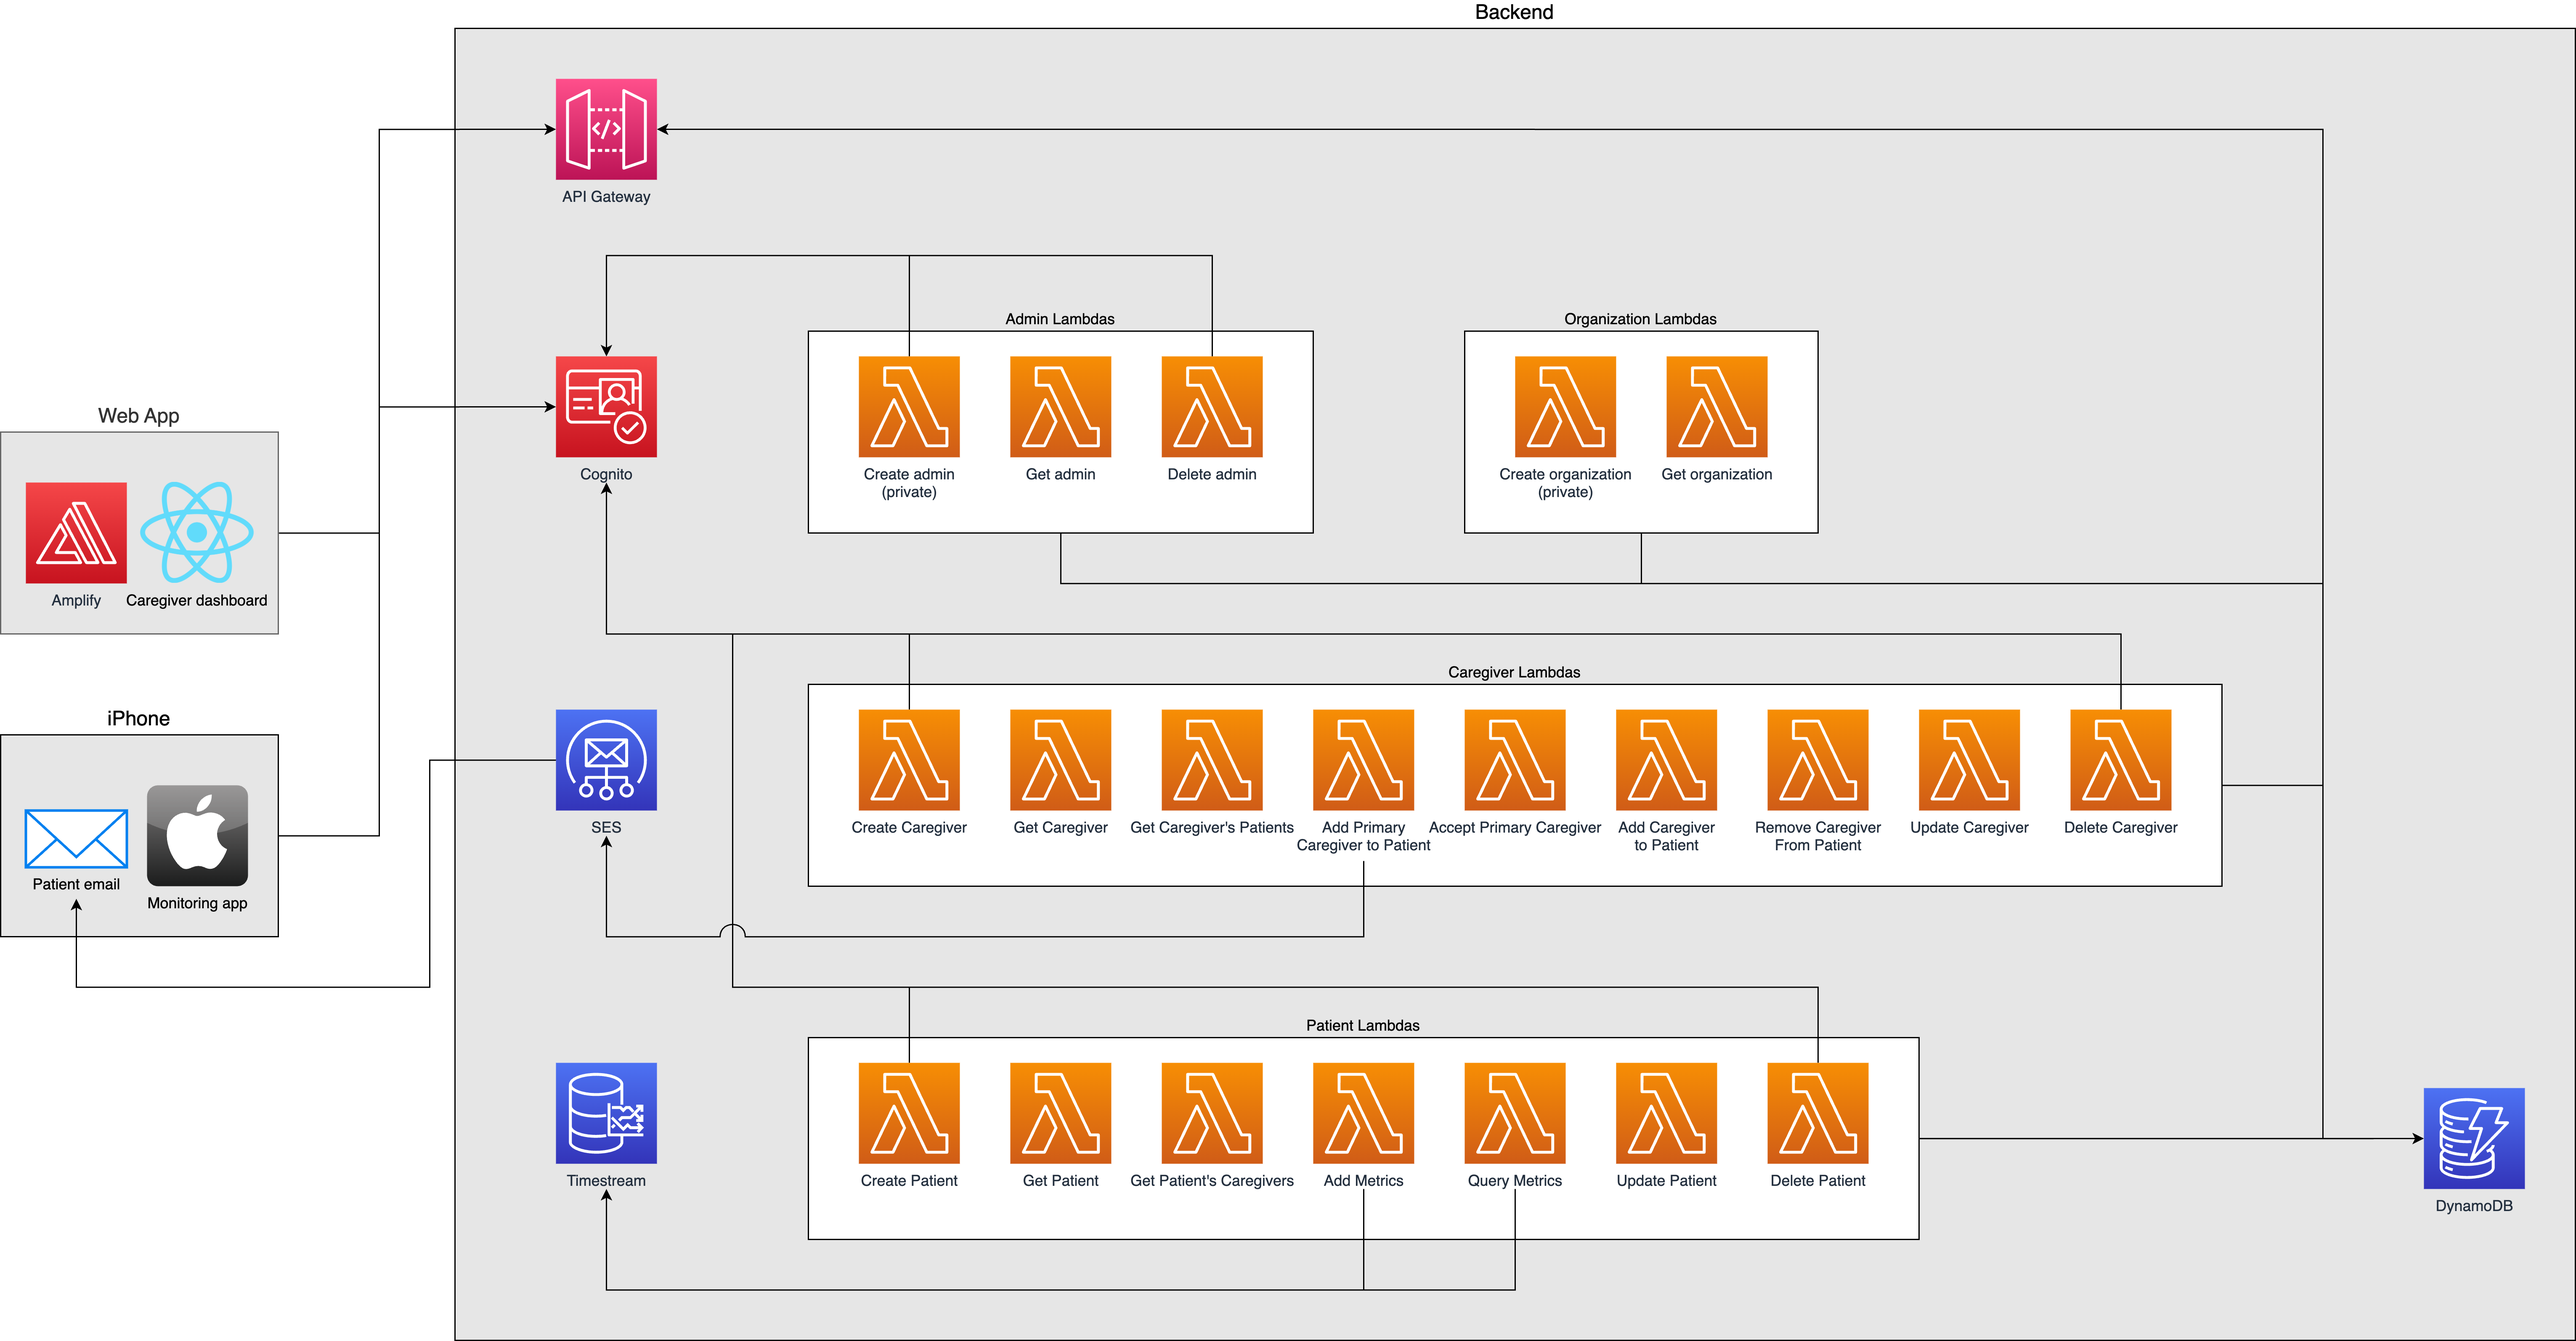
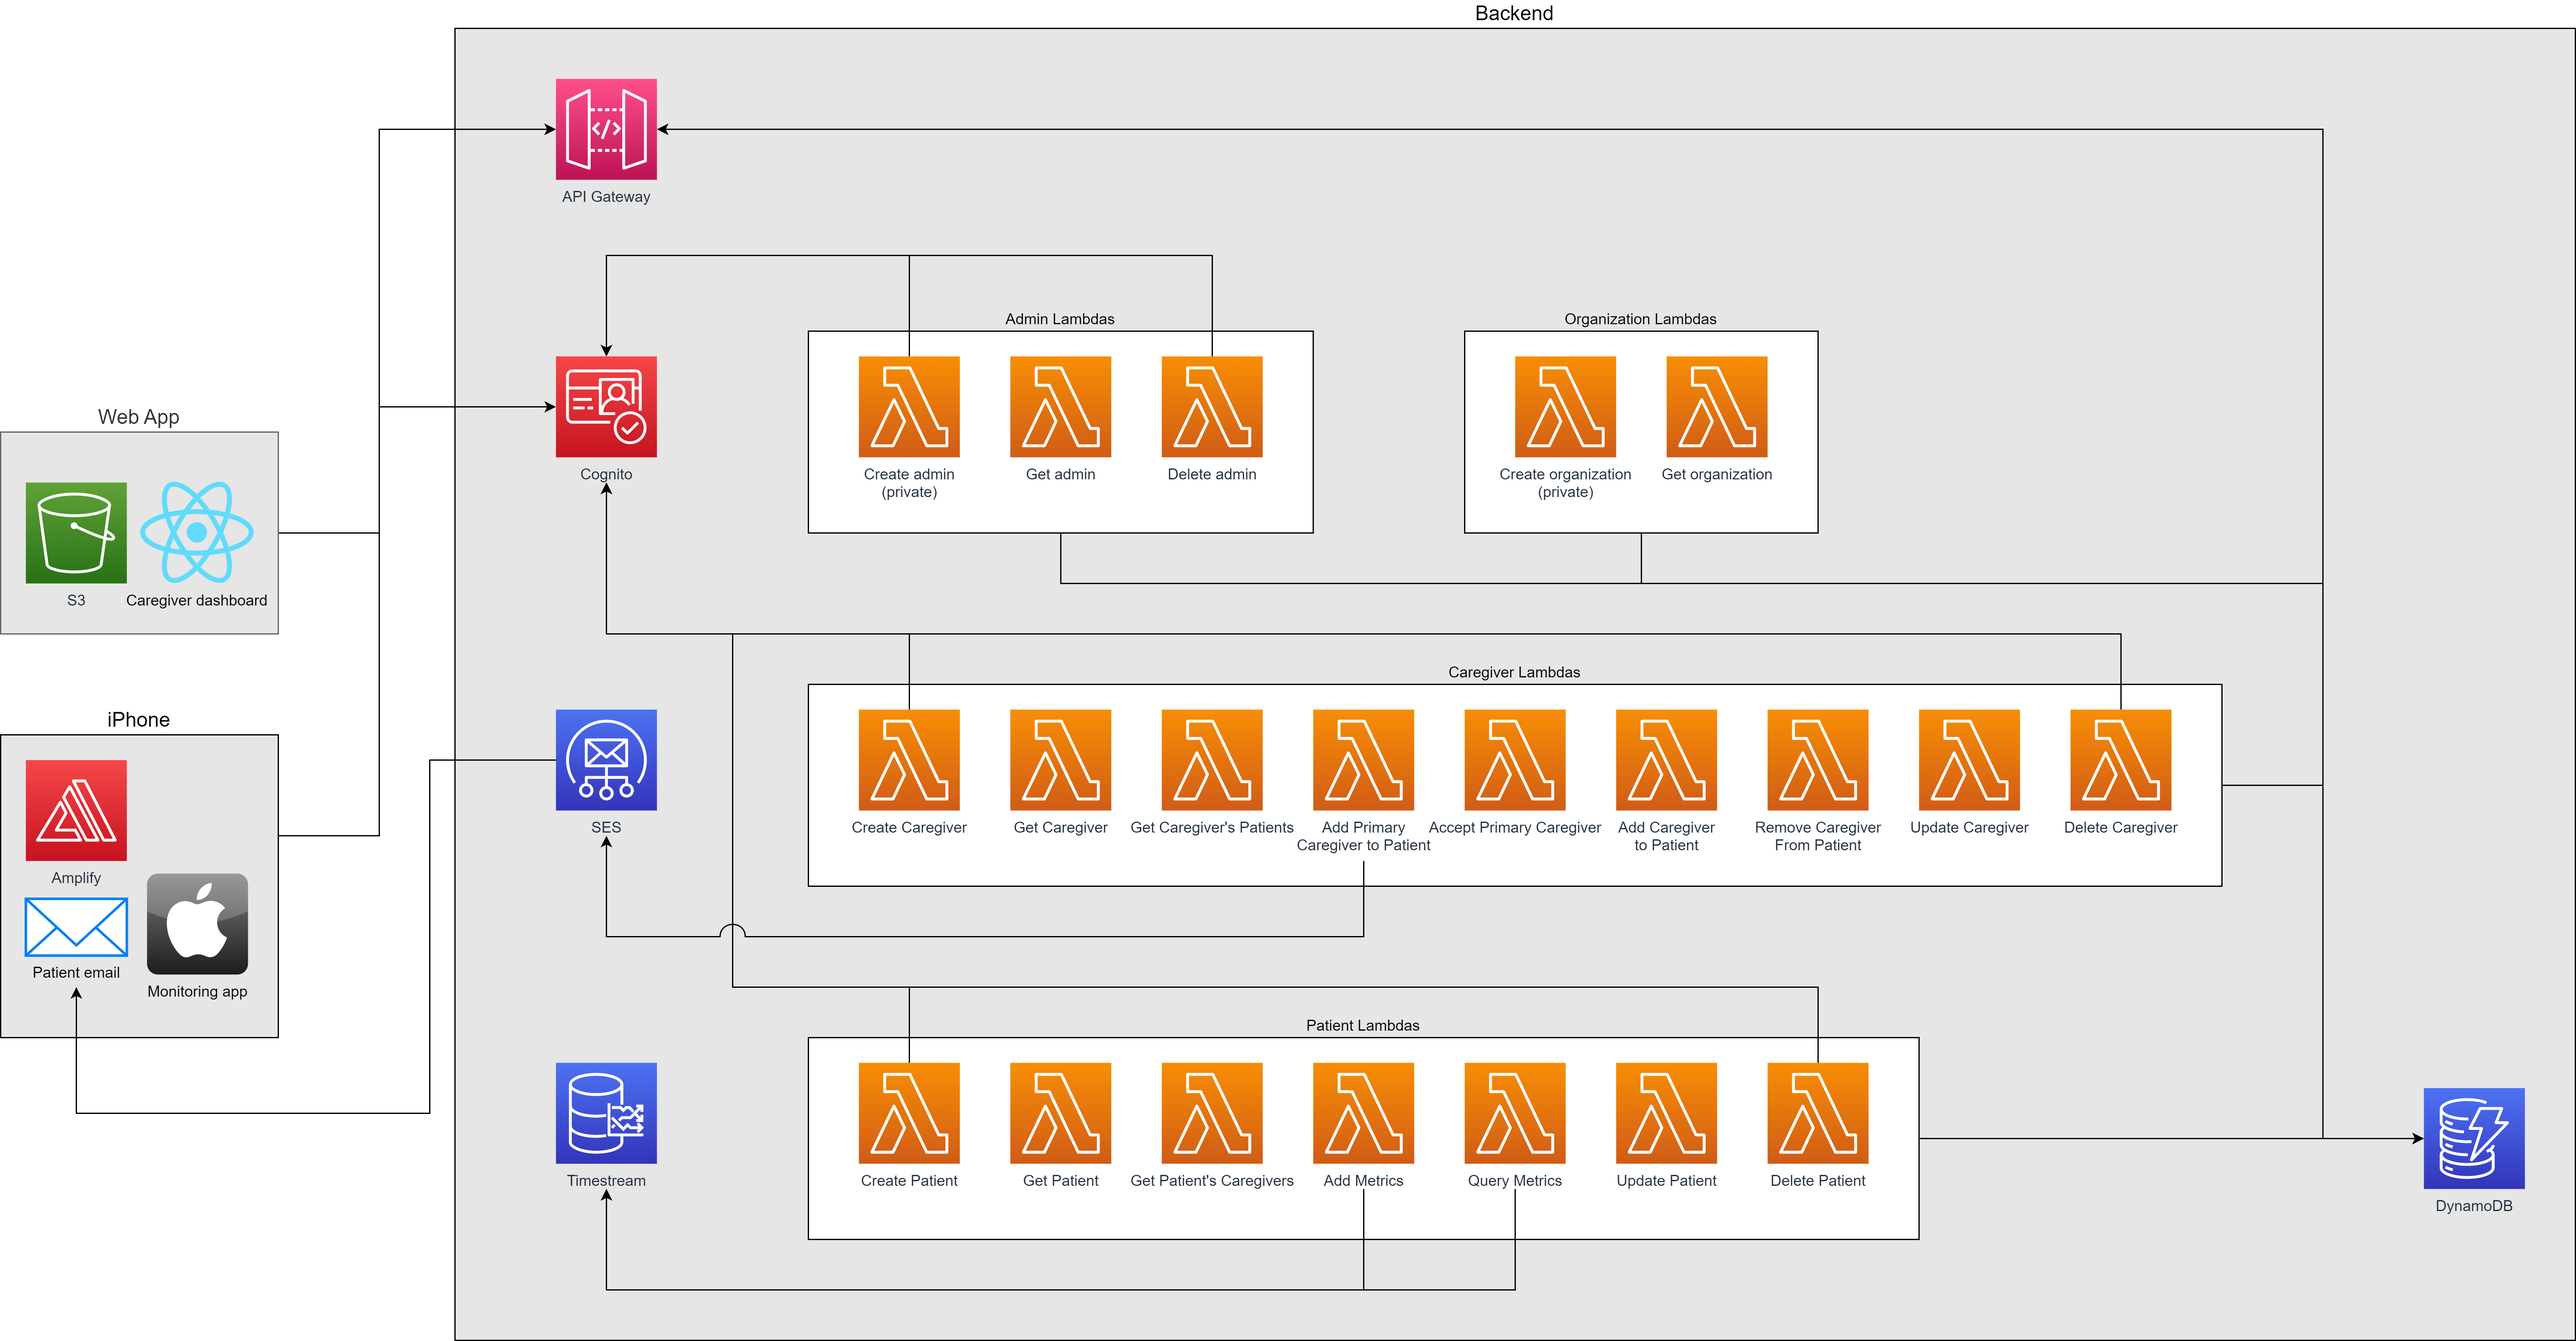
Fixed some typos and updated architecture diagrams

diff --git a/docs/ArchitectureDeepDive.md b/docs/ArchitectureDeepDive.md
@@ -8,8 +8,8 @@ The Architecture diagram gives insight into how patient and caregiver registrati
 
 ### Patient and Caregiver Registration Flow
 1. Patients can sign up for accounts directly on the iOS app. The iOS app calls the Create Patient Lambda through API Gateway which creates the patient record in DynamoDB and in the Cognito user pool.
-2. The web app, which is hosted through Amplify, allows admins to create caregiver accounts. The web app calls the Create Caregiver Lambda through API Gateway which creates the caregiver record in DynamoDB and in the Cognito user pool.
-3. Patients and Caregivers can log in to their accounts through the iOS app and web app respectively. The log in functionality is provided by Cognito. After logging in, the apps receive an ID token which is attached to all subsequent API calls to API Gateway, which validates the token using a Cognito Authorizer and allow the calls to proceed to the Lambdas.
+2. The web app, which is hosted through S3, allows admins to create caregiver accounts. The web app calls the Create Caregiver Lambda through API Gateway which creates the caregiver record in DynamoDB and in the Cognito user pool.
+3. Patients and Caregivers can log in to their accounts through the iOS app (through Amplify) and web app respectively. The log in functionality is provided by Cognito. After logging in, the apps receive an ID token which is attached to all subsequent API calls to API Gateway, which validates the token using a Cognito Authorizer and allow the calls to proceed to the Lambdas.
 4. A caregiver can request to be a primary caregiver of a patient through the web app. After the caregiver specifies the patient's email address, the web app calls the Add Primary Caregiver to Patient Lambda through API Gateway which creates a record in DynamoDB linking the patient and caregiver and specifies that the caregiver is an unverified primary caregiver of the patient. An auth code which is valid for 48 hours is generated by the Lambda and is either sent back to the web app to generate a QR code, or sent to the patient's email address as a verification link through SES.
 5. The patient can either click on the verification link through email or scan the QR code on the web app using the iOS app. Either ways, the iOS app calls the Accept Primary Caregiver Lambda which verifies the caregiver and updates the record in DynamoDB. The caregiver is now a verified primary caregiver of the patient and has access to the patient's metrics.
 6. The primary caregiver can share the patient with other caregivers through the web app. The web app calls the Add Caregiver to Patient Lambda which creates a record in DynamoDB linking the patient and caregiver. Caregivers can unlink themselves from patients at any time through the web app which calls the Remove Caregiver from Patient Lambda.

diff --git a/docs/DeploymentGuide.md b/docs/DeploymentGuide.md
@@ -1,9 +1,9 @@
 # Deployment Guides
 
-The application has three components: the back-end, the webapp, and the iOS app. It is required to deploy the backend first before you can deploy the webapp or the phone app. You can find the guides below:
+The application has three components: the backend, the webapp, and the iOS app. It is required to deploy the backend first before you can deploy the webapp or the phone app. You can find the guides below:
 
-| Index                                   | Description                                                                                    |
-| :-------------------------------------- | :--------------------------------------------------------------------------------------------- |
-| [Back-end](./BackendDeploymentGuide.md) | Deployment guide for the back-end. Deploy the back-end **first** before moving on to the rest. |
-| [Webapp](./WebappDeploymentGuide.md)    | Deployment guide for the webapp                                                                |
-| [iOS](./MobileDeploymentGuide.md)       | Deployment Guide for the iOS app                                                               |
+| Index                                  | Description                                                                                  |
+|:---------------------------------------|:---------------------------------------------------------------------------------------------|
+| [Backend](./BackendDeploymentGuide.md) | Deployment guide for the backend. Deploy the backend **first** before moving on to the rest. |
+| [Webapp](./WebappDeploymentGuide.md)   | Deployment guide for the webapp                                                              |
+| [iOS](./MobileDeploymentGuide.md)      | Deployment Guide for the iOS app                                                             |

diff --git a/docs/WebappDeploymentGuide.md b/docs/WebappDeploymentGuide.md
@@ -6,7 +6,7 @@ Before you deploy, you must have the following in place:
 *  [AWS CLI](https://aws.amazon.com/cli/)
 *  [Node.js](https://nodejs.org/en/)
 
-Additionally, please complete the [backend deployment](./DeploymentGuide.md) first.
+Additionally, please complete the [backend deployment](./BackendDeploymentGuide.md) first.
 
 # Step 1: Clone The Repository
 First, clone the GitHub repository onto your machine. To do this:

diff --git a/docs/BackendDeploymentGuide.md b/docs/BackendDeploymentGuide.md
@@ -126,5 +126,3 @@ Like so:
 After clicking on the orange `Test` button, the admin should be created and an email containing the admin's temporary password should be sent to the admin's email address. The email should look like this:
 ![alt text](./images/admin_password_email.png)
 The admin can then use the temporary password to log in to the web app and change their password.
-
-# Step 3: Frontend Deployment
